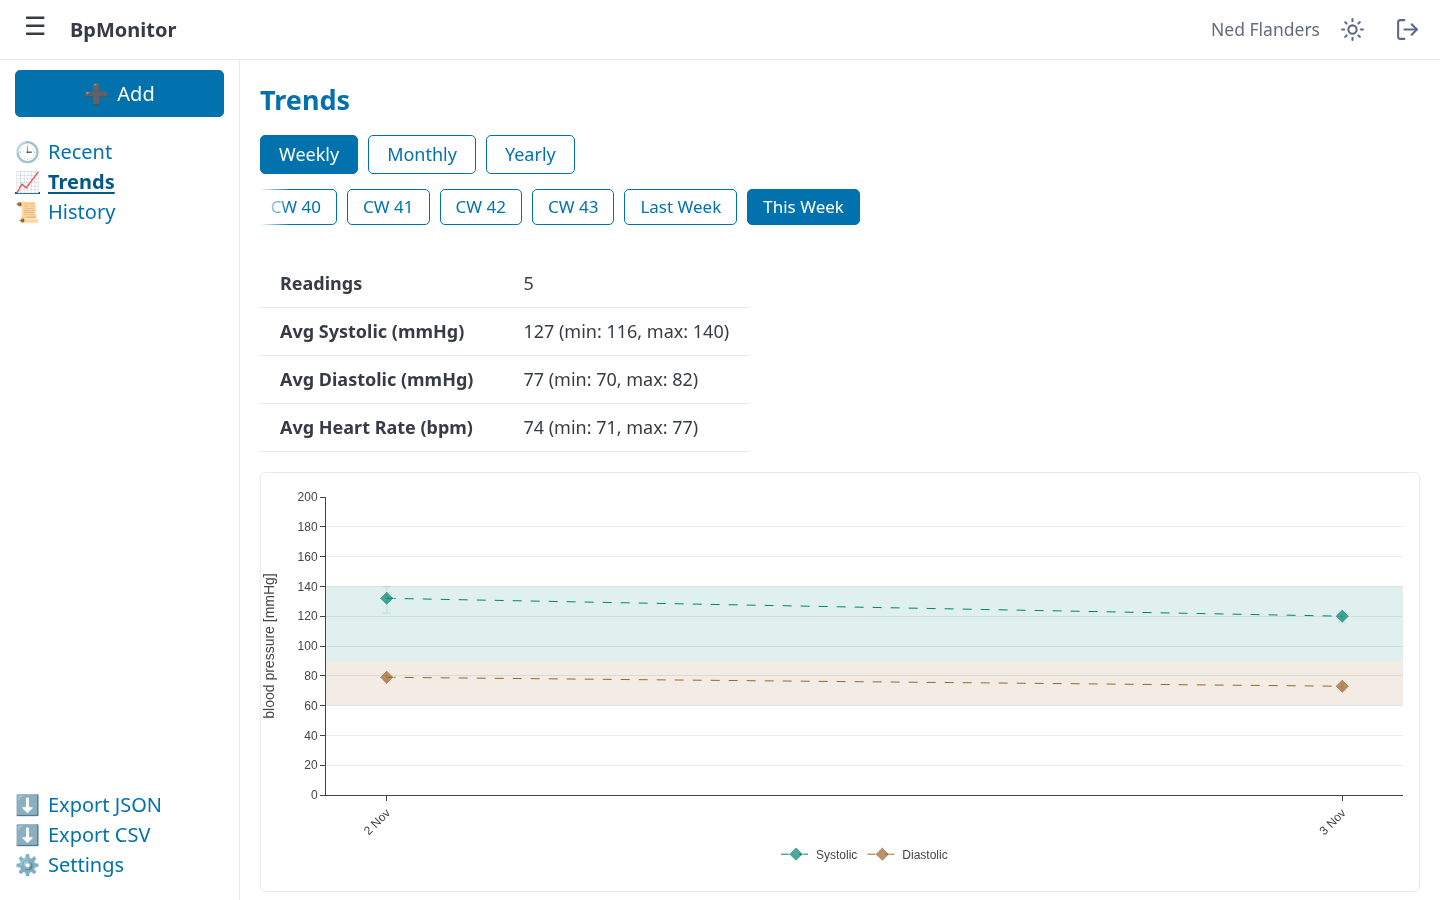
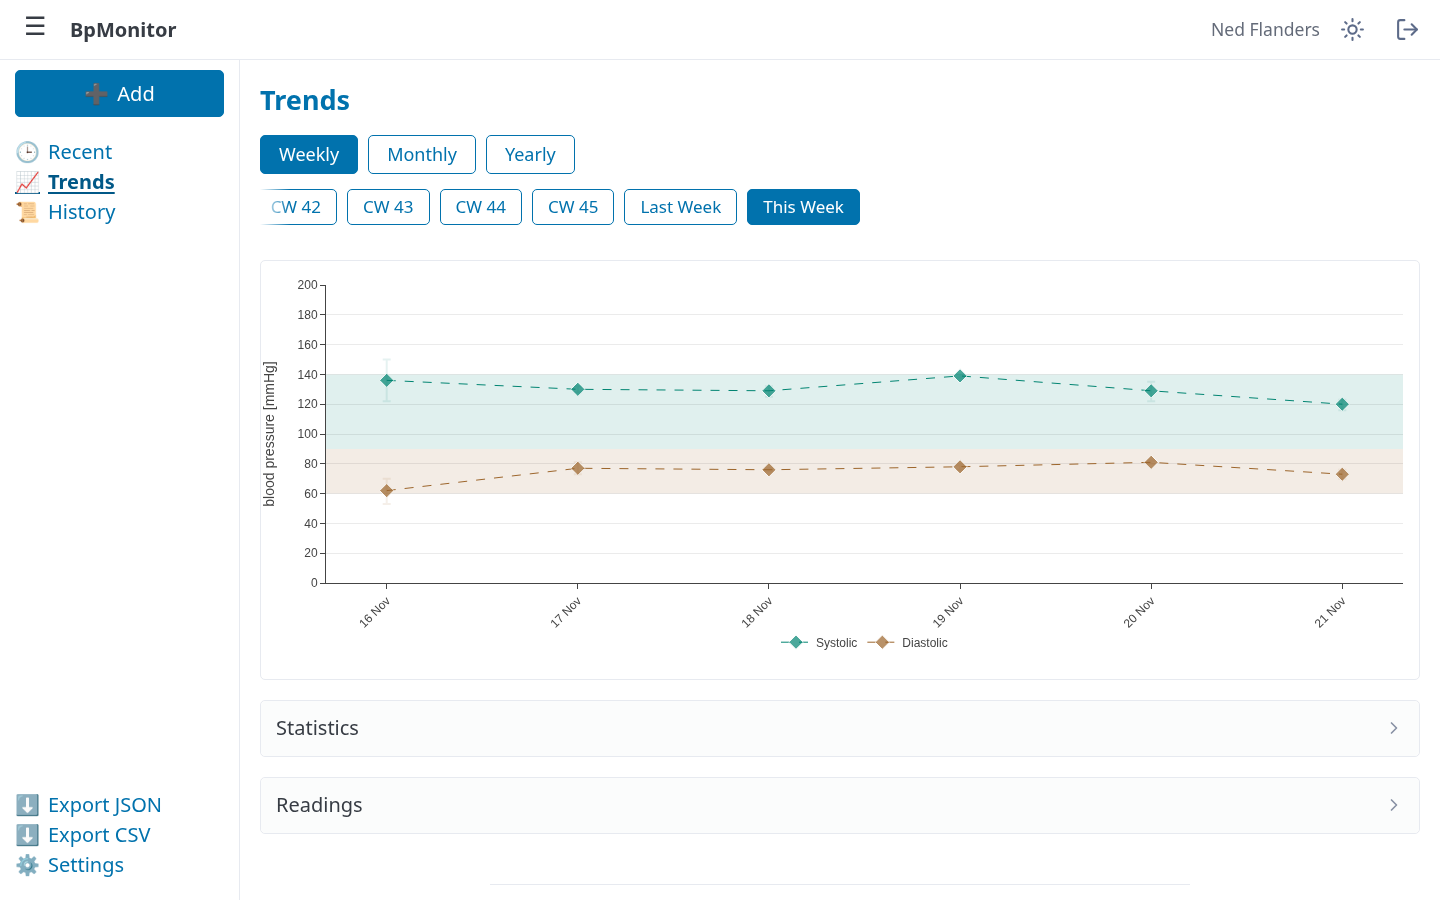
📝 docs: update changelog for v1.19.0 (#761)

diff --git a/CHANGELOG.md b/CHANGELOG.md
@@ -7,9 +7,19 @@ and this project adheres to [Semantic Versioning](https://semver.org/spec/v2.0.0
 
 ## [Unreleased]
 
+## [1.19.0] - 2026-11-21
+
 ### Changed
 
-- Trends: the summary numbers (readings count, averages, min/max) moved from above the chart into a collapsible Statistics section below it. It starts collapsed and remembers whether you left it open.
+- Trends: the summary numbers (readings count, averages, min/max) move from above the chart into a collapsible Statistics section below it. It starts collapsed and remembers whether you left it open.
+- **Deployment:** redeploy the new image to get the runtime fix. No database or configuration changes are needed.
+
+### Security
+
+- The container image now runs on the .NET 11.0 GA runtime. Earlier images shipped the release-candidate runtime, which carried three high-severity ASP.NET Core vulnerabilities (CVE-2026-114146, CVE-2026-114147, CVE-2026-114149).
+
+### Maintenance
+
 - CI pins GitHub Actions through a verified workflow lockfile (`actions.lock`) instead of inline commit SHAs, which also covers actions used by other actions. No user-facing changes.
 
 ## [1.18.1] - 2026-11-03
@@ -638,7 +648,8 @@ First stable release of the BpMonitor web app.
 
 - Initial GitHub release workflow and `install.sh` for automated deployment.
 
-[Unreleased]: https://github.com/draptik/BpMonitor/compare/v1.18.1...HEAD
+[Unreleased]: https://github.com/draptik/BpMonitor/compare/v1.19.0...HEAD
+[1.19.0]: https://github.com/draptik/BpMonitor/compare/v1.18.1...v1.19.0
 [1.18.1]: https://github.com/draptik/BpMonitor/compare/v1.18.0...v1.18.1
 [1.18.0]: https://github.com/draptik/BpMonitor/compare/v1.17.0...v1.18.0
 [1.17.0]: https://github.com/draptik/BpMonitor/compare/v1.16.1...v1.17.0
